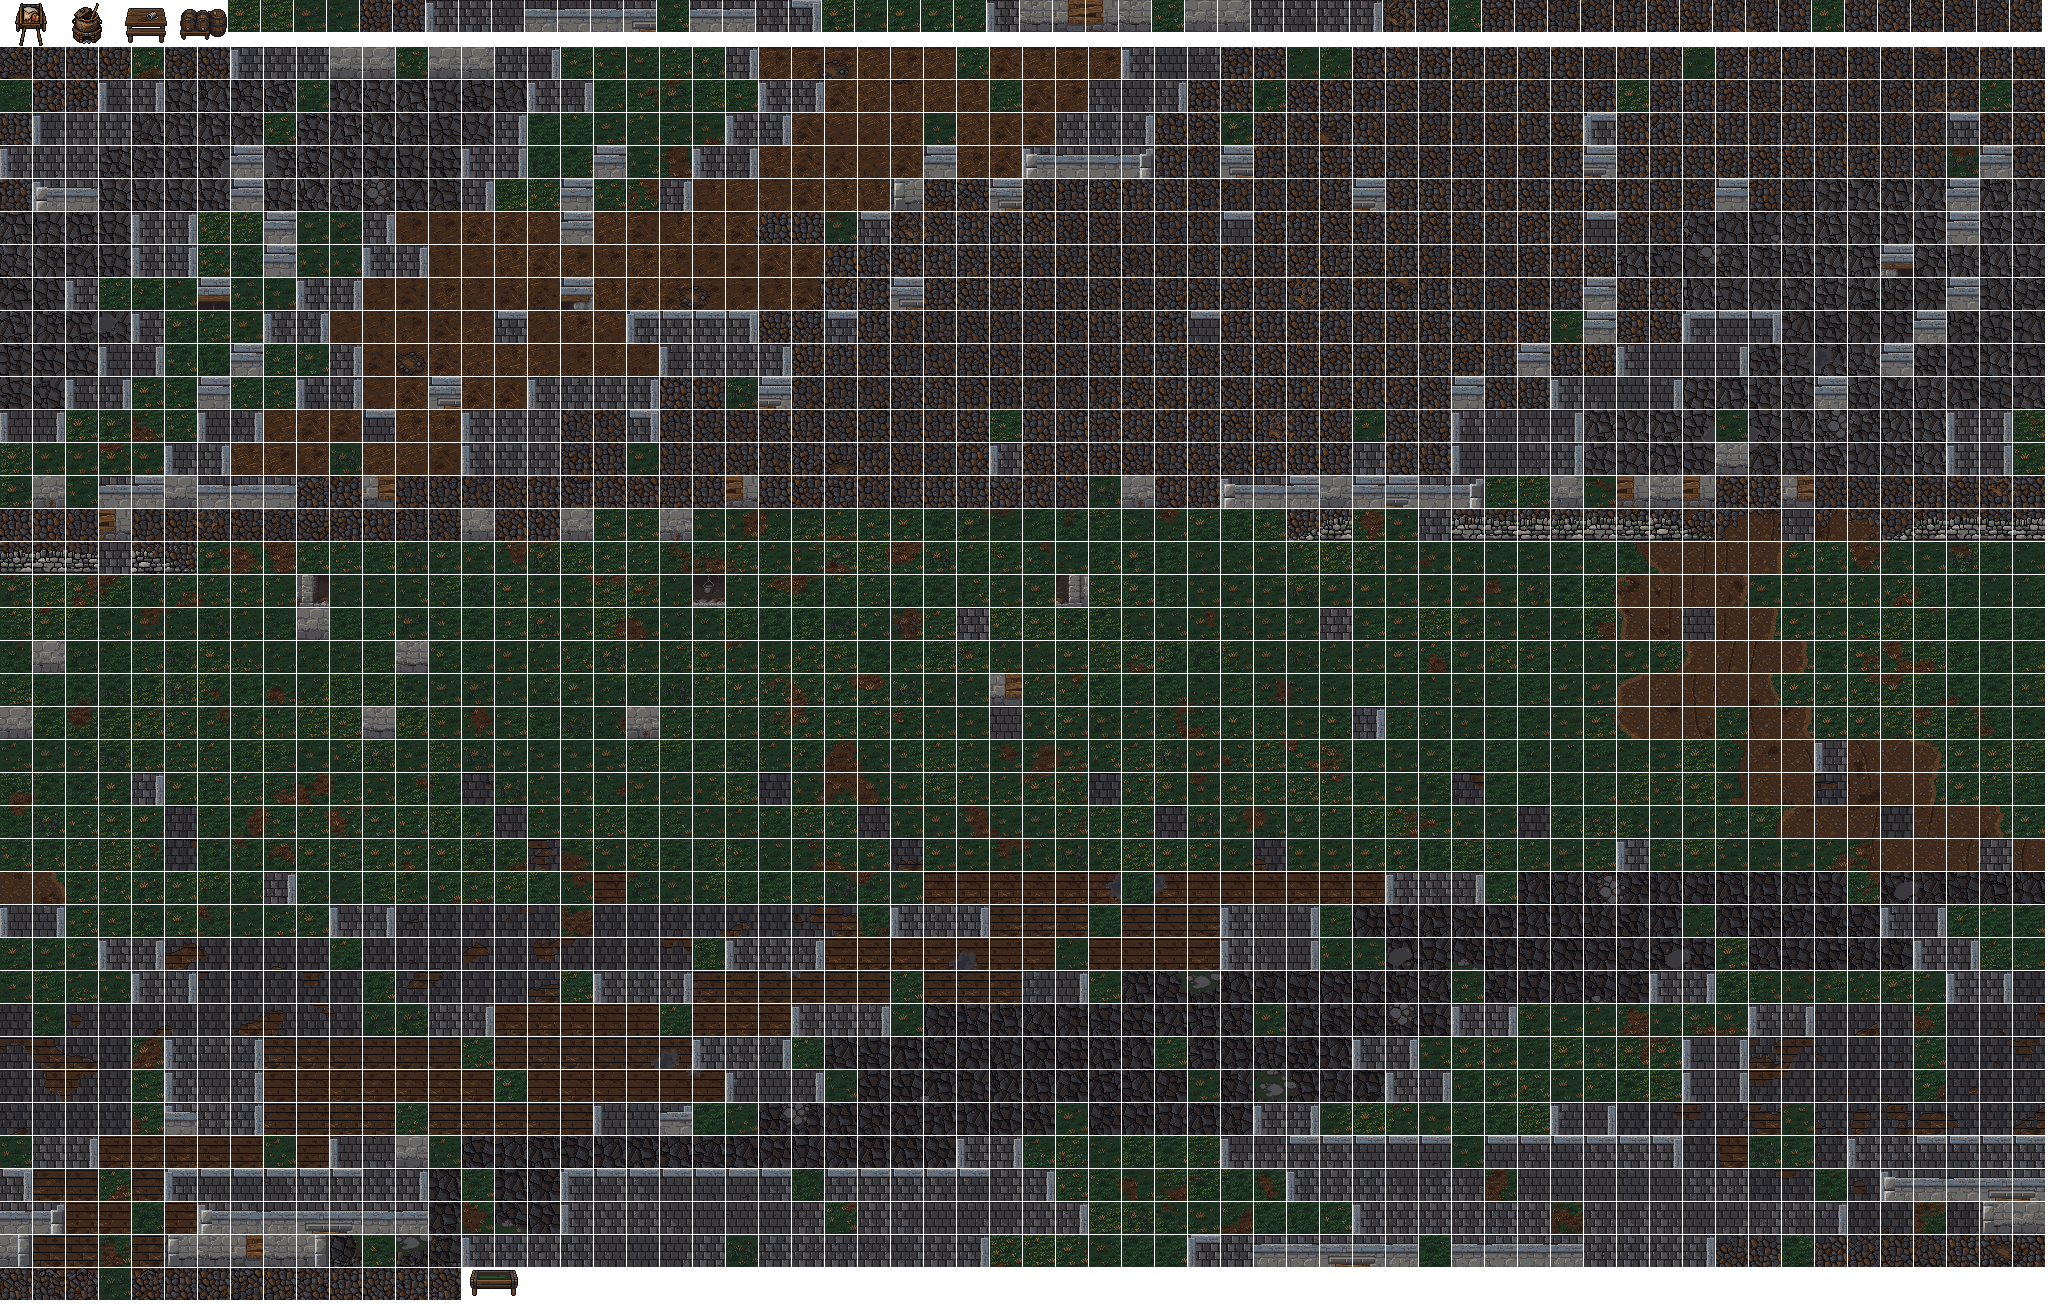
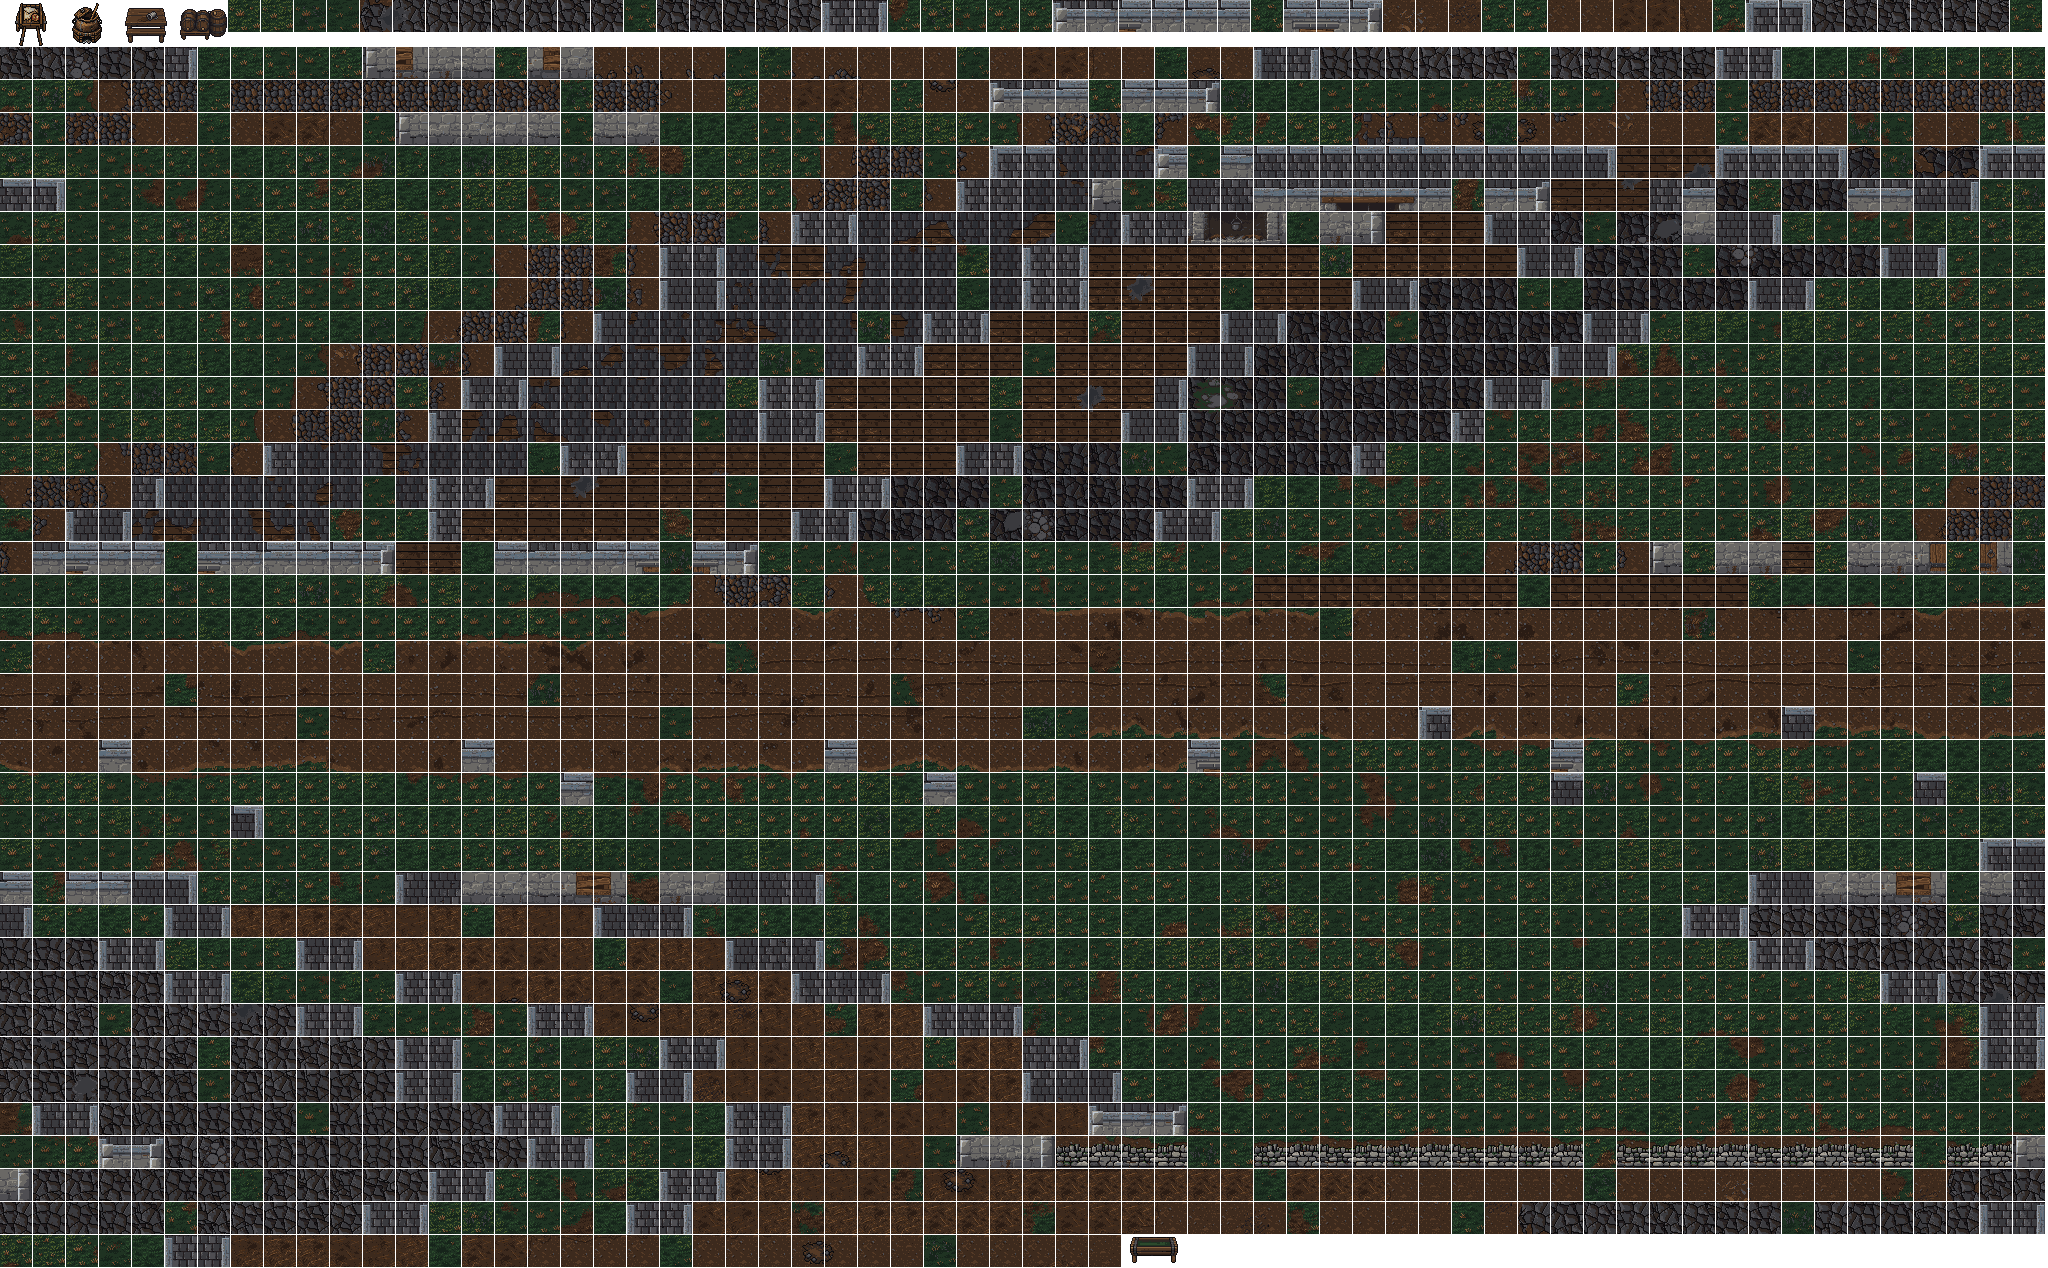
lane/b-morrow-kit: Carter's Rest rebuilt on layout A (Tyler's pick): the inn faces the road, the yard behind
Road east-west, start at the porch by the taproom's front door; front range: walked Roof (guest wing), Taproom (hearth on the back
wall), Cellar (keg door onto the yard); cart lane with the wheel track's cobble; packed-earth yard with straw paths; Stable NW,
Brewhouse NE. Painter: packed earth and straw path materials, ruts follow an east-west road. maskHash 211de7f3. No generations.
EXIT 0 one at a time: world-assets, pixel-icons, ground-pack, world-core, client-boot. pack check quick: lint clean, grade FAIL 6
(four-xp 0.78-0.80, seat-below-solo 0.78-0.94, Normal party lines).

diff --git a/src/data/grounds/carters_rest/map.js b/src/data/grounds/carters_rest/map.js
@@ -2,14 +2,17 @@
 // cellar (lane/b-morrow-kit 2026-11-19, the designer's "2026-11-14 The Morrow Hills" section 8). Row shape and lint: src/world/core/map-compile.js.
 // Rebuild the hash with `node tests/world-core.mjs --hashes` after changing what blocks a step. Shape of the pack: src/data/grounds/shape.js.
 //
-// THE GRID. A coaching inn round a cobbled yard on the moor. The road comes up from Krell's Hold at the south (x27-32), past Harry's cart,
-// through the gate in the yard's dry stone wall (row 33). Round the yard: the Stable on the west (its door x14-17 y23-25), the Brewhouse on
-// the east (x42-45 y23-25), and the inn's north range: the Roof (the guest wing's slates, slumped down to the yard at x18-20 y13-15, where
-// the trolls pull it apart to throw it), the Taproom (its front door x28-30) and the Cellar (the keg hatch x39-41). The route is the pack's
-// six rooms in order: 1 the Yard, 2 the Stable, 3 the Roof, 4 the Brewhouse, 5 the Taproom, 6 the Cellar. Every doorway is three wide.
-//   '#' the inn's walls and roofs, the dry stone wall and the moor (all block a step and a shot)
-//   '.' the yard's cobble   ':' the road's earth   '=' the taproom's boards   'y' the stable's straw (earth)
-//   'f' the brewhouse's flags   'c' the cellar's stone (both flagstone)   'r' the walked roof's slates (setts)
+// THE GRID: LAYOUT A (Tyler's pick 2026-11-19, art/review/morrow-kit/layout-sketches/A-inn-faces-the-road.png): the inn faces the road.
+// The Morrow road runs east-west along the south (rows 37-40, in from Krell's Hold at the west); the hero starts on it at the porch (row 36,
+// x22-35) by the taproom's front door (x28-29). The front range: the guest wing west (its walked Roof, slumped down to the yard at x15-17
+// y22-23, where the trolls pull it apart to throw it), the Taproom in the middle (its hearth on the back wall, its back door x32-34) and the
+// Cellar east (its keg door x39-41 onto the yard). The cart lane (x7-10) runs up the west side to a small yard behind (packed earth, straw
+// paths, cobble only on the wheel track), the Stable on its north-west (door x13-15 y14-16) and the Brewhouse on its north-east (x42-43).
+// The route is the pack's six rooms in order: 1 the Yard, 2 the Stable, 3 the Roof, 4 the Brewhouse, 5 the Taproom, 6 the Cellar.
+//   '#' the inn's walls and roofs, the yard's dry stone wall and the moor (all block a step and a shot)
+//   ':' the road's earth   'e' the yard's and lane's packed earth   'p' trodden straw   '.' the wheel track's cobble
+//   '=' the taproom's boards and the porch   'y' the stable's straw (earth)   'f' the brewhouse's flags   'c' the cellar's stone (flagstone)
+//   'r' the walked roof's slates (setts)
 //
 // ART: DRAWN (set `morrow`, tools/world-art/morrow-grounds.mjs). The ground `carters_rest_ground` is painted from these rows on the Morrow
 // Hills kit: the moor and road of the approved sample, the inn's floors born dim on the palette, the inn's walls laid over the paint. The
@@ -22,83 +25,81 @@ export default Object.freeze({
   "outdoor": true,
   "light": "day",
   "ground": "carters_rest_ground",
-  "legend": {"#":"rock",".":"cobble",":":"earth","=":"planks","y":"earth","f":"flagstone","c":"flagstone","r":"setts"},
+  "legend": {"#":"rock",".":"cobble",":":"earth","e":"earth","p":"earth","=":"planks","y":"earth","f":"flagstone","c":"flagstone","r":"setts"},
   "rows": [
     "############################################################",
     "############################################################",
     "############################################################",
     "############################################################",
-    "#####rrrrrrrrrrrrrrr###==============###ccccccccccccccc#####",
-    "#####rrrrrrrrrrrrrrr###==============###ccccccccccccccc#####",
-    "#####rrrrrrrrrrrrrrr###==============###ccccccccccccccc#####",
-    "#####rrrrrrrrrrrrrrr###==============###ccccccccccccccc#####",
-    "#####rrrrrrrrrrrrrrr###==============###ccccccccccccccc#####",
-    "#####rrrrrrrrrrrrrrr###==============###ccccccccccccccc#####",
-    "#####rrrrrrrrrrrrrrr###==============###ccccccccccccccc#####",
-    "#####rrrrrrrrrrrrrrr###==============###ccccccccccccccc#####",
-    "#####rrrrrrrrrrrrrrr###==============###ccccccccccccccc#####",
-    "##################rrr#######===########ccc##################",
-    "##################rrr#######===########ccc##################",
-    "##################rrr#######===########ccc##################",
-    "##################........................##################",
-    "##################........................##################",
-    "####yyyyyyyyyy####........................####ffffffffff####",
-    "####yyyyyyyyyy####........................####ffffffffff####",
-    "####yyyyyyyyyy####........................####ffffffffff####",
-    "####yyyyyyyyyy####........................####ffffffffff####",
-    "####yyyyyyyyyy####........................####ffffffffff####",
-    "####yyyyyyyyyyyyyy........................ffffffffffffff####",
-    "####yyyyyyyyyyyyyy........................ffffffffffffff####",
-    "####yyyyyyyyyyyyyy........................ffffffffffffff####",
-    "####yyyyyyyyyy####........................####ffffffffff####",
-    "####yyyyyyyyyy####........................####ffffffffff####",
-    "####yyyyyyyyyy####........................####ffffffffff####",
-    "####yyyyyyyyyy####........................####ffffffffff####",
-    "####yyyyyyyyyy####........................####ffffffffff####",
-    "##################........................##################",
-    "##################........................##################",
-    "############################::::############################",
-    "############################::::############################",
-    "############################::::############################",
-    "############################::::############################",
-    "############################::::############################",
-    "###########################:::::############################",
-    "###########################:::::############################",
-    "############################:::::###########################",
-    "############################:::::###########################",
-    "###########################::::::###########################",
-    "###########################::::::###########################"
+    "############################################################",
+    "############################################################",
+    "###yyyyyyyyyy###############################fffffffffff#####",
+    "###yyyyyyyyyy###############################fffffffffff#####",
+    "###yyyyyyyyyy###############################fffffffffff#####",
+    "###yyyyyyyyyy###############################fffffffffff#####",
+    "###yyyyyyyyyy###############################fffffffffff#####",
+    "###yyyyyyyyyy###############################fffffffffff#####",
+    "###yyyyyyyyyy###############################fffffffffff#####",
+    "###yyyyyyyyyy###############################fffffffffff#####",
+    "###yyyyyyyyyyyyypppppppeeeeeeeeeeeeeeeeeeefffffffffffff#####",
+    "###yyyyyyyyyyyyypppppppeeeeeeeeeeeeeeeeeeefffffffffffff#####",
+    "###yyyyyyyyyyyyyeeeeeeeeeeeeeeeeeeeeeeeeeefffffffffffff#####",
+    "################eeeeeeeeeeeeeeeeppeeeeeeee##fffffffffff#####",
+    "################eeeeeeeeeeeeeeeeppeeeeeeee##fffffffffff#####",
+    "#######e..............eeeeeeeeeeppeeeeeeee##################",
+    "#######e..............eeeeeeeeeeppeeeeeeee##################",
+    "#######e..e#####eeeeeeeeeeeeeeeeppeeeeeeee##################",
+    "#######e..e####rrr##############===####ccc##################",
+    "#######e..e####rrr##############===####ccc##################",
+    "#######e..e##rrrrrrrr###########===####ccc##################",
+    "#######e..e##rrrrrrrr##============##cccccccc###############",
+    "#######e..e##rrrrrrrr##============##cccccccc###############",
+    "#######e..e##rrrrrrrr##============##cccccccc###############",
+    "#######e..e##rrrrrrrr##============##cccccccc###############",
+    "#######e..e##rrrrrrrr##============##cccccccc###############",
+    "#######e..e##rrrrrrrr##============##cccccccc###############",
+    "#######e..e##rrrrrrrr##============##cccccccc###############",
+    "#######e..e##rrrrrrrr##============##cccccccc###############",
+    "#######e..e##rrrrrrrr##============##cccccccc###############",
+    "#######e..e#################==##############################",
+    "#######e..e#################==##############################",
+    "#######e..e###########==============########################",
+    "::::::::::::::::::::::::::::::::::::::::::::::::::::::::::::",
+    "::::::::::::::::::::::::::::::::::::::::::::::::::::::::::::",
+    "::::::::::::::::::::::::::::::::::::::::::::::::::::::::::::",
+    "::::::::::::::::::::::::::::::::::::::::::::::::::::::::::::",
+    "############################################################",
+    "############################################################",
+    "############################################################"
   ],
   "faces": [],
   "objects": [
-    {"id":"cw_coal_seam","x":41,"y":5},
-    {"id":"cw_coal_seam","x":53,"y":5},
-    {"id":"mh_harrys_cart","x":27,"y":25},
-    {"id":"sack_pile","x":21,"y":18},
-    {"id":"crates","x":39,"y":18},
-    {"id":"hay_bale","x":19,"y":22},
-    {"id":"barrel_broken","x":38,"y":30},
-    {"id":"chopping_block","x":35,"y":17},
-    {"id":"mh_trough","x":5,"y":20},
-    {"id":"hay_bale","x":12,"y":19},
-    {"id":"hay_bale","x":5,"y":29},
-    {"id":"sack_stack","x":12,"y":29},
-    {"id":"cr_brew_kettle","x":48,"y":19},
-    {"id":"cr_brew_kettle","x":54,"y":19},
-    {"id":"mh_kegs","x":47,"y":29},
-    {"id":"mh_taproom_table","x":24,"y":5},
-    {"id":"mh_taproom_table","x":33,"y":5},
-    {"id":"mh_taproom_table","x":24,"y":11},
-    {"id":"mh_taproom_table","x":33,"y":11},
-    {"id":"mh_kegs","x":44,"y":5},
-    {"id":"mh_kegs","x":43,"y":11},
-    {"id":"mh_kegs","x":50,"y":11}
+    {"id":"cw_coal_seam","x":44,"y":27},
+    {"id":"cw_coal_seam","x":37,"y":32},
+    {"id":"mh_harrys_cart","x":20,"y":17},
+    {"id":"sack_pile","x":35,"y":15},
+    {"id":"chopping_block","x":39,"y":20},
+    {"id":"hay_bale","x":24,"y":14},
+    {"id":"mh_kegs","x":36,"y":21},
+    {"id":"mh_taproom_table","x":33,"y":36},
+    {"id":"mh_taproom_table","x":24,"y":27},
+    {"id":"mh_taproom_table","x":32,"y":31},
+    {"id":"mh_taproom_table","x":24,"y":32},
+    {"id":"mh_trough","x":4,"y":7},
+    {"id":"hay_bale","x":11,"y":7},
+    {"id":"sack_stack","x":4,"y":15},
+    {"id":"hay_bale","x":10,"y":15},
+    {"id":"cr_brew_kettle","x":46,"y":8},
+    {"id":"cr_brew_kettle","x":52,"y":16},
+    {"id":"mh_kegs","x":51,"y":7},
+    {"id":"mh_kegs","x":38,"y":26},
+    {"id":"mh_kegs","x":42,"y":32}
   ],
   "buildings": [],
-  "path": [[28,39],[30,39],[30,41],[28,41]],
-  "spawns": [[24,25],[25,26],[24,27],[23,26],[25,25],[25,27],[23,27],[23,25],[8,23],[9,24],[8,25],[7,24],[9,23],[9,25],[7,25],[7,23],[12,7],[13,8],[12,9],[11,8],[13,7],[13,9],[11,9],[11,7],[51,23],[52,24],[51,25],[50,24],[52,23],[52,25],[50,25],[50,23],[29,7],[30,8],[29,9],[28,8],[30,7],[30,9],[28,9],[28,7],[47,7],[48,8],[47,9],[46,8],[48,7],[48,9],[46,9],[46,7]],
+  "path": [[26,38],[30,38],[30,39],[26,39]],
+  "spawns": [[28,16],[29,17],[28,18],[27,17],[29,16],[29,18],[27,18],[27,16],[8,10],[9,11],[8,12],[7,11],[9,10],[9,12],[7,12],[7,10],[17,27],[18,28],[17,29],[16,28],[18,27],[18,29],[16,29],[16,27],[49,11],[50,12],[49,13],[48,12],[50,11],[50,13],[48,13],[48,11],[28,28],[29,29],[28,30],[27,29],[29,28],[29,30],[27,30],[27,28],[40,28],[41,29],[40,30],[39,29],[41,28],[41,30],[39,30],[39,28]],
   "stations": {},
-  "exits": [{"x":29,"y":43,"to":"town_common"}],
-  "start": [29,41],
-  "maskHash": "373b87da"
+  "exits": [{"x":0,"y":38,"to":"town_common"}],
+  "start": [28,38],
+  "maskHash": "211de7f3"
 });

diff --git a/src/data/grounds/carters_rest/pack.js b/src/data/grounds/carters_rest/pack.js
@@ -38,20 +38,20 @@ export default definePack({
   ground: {
     map: 'carters_rest',
     /* the road in from Krell's Hold, by Harry's cart */
-    start: [[29, 41], [28, 41], [30, 41], [29, 40]],
+    start: [[28, 38], [27, 38], [29, 38], [28, 39]],
     pockets: [
       /* P0 the Yard: Pickers going through the last wagon. The soft door */
-      box([18, 16, 41, 32], [24, 26], [PK, PK], [TH, PK, PK, BR, PK, PK]),
+      box([16, 14, 41, 21], [28, 17], [PK, PK], [TH, PK, PK, BR, PK, PK]),
       /* P1 the Stable: a Stable Troll asleep in the straw and a Picker in the tack room */
-      box([4, 18, 13, 30], [8, 24], [ST, PK], [PK, ST, PK, TH, PK, ST]),
+      box([3, 6, 12, 16], [8, 11], [ST, PK], [PK, ST, PK, TH, PK, ST]),
       /* P2 the Roof: Slate Throwers up top, pulling the inn apart to throw it */
-      box([5, 4, 19, 12], [12, 8], [TH, PK], [TH, PK, ST, PK, TH, PK]),
+      box([13, 24, 20, 33], [17, 28], [TH, PK], [TH, PK, ST, PK, TH, PK]),
       /* P3 the Brewhouse: the Brewers and their kettles */
-      box([46, 18, 55, 30], [51, 24], [BR, BR], [PK, ST, BR, PK, TH, PK]),
+      box([44, 6, 54, 18], [49, 12], [BR, BR], [PK, ST, BR, PK, TH, PK]),
       /* P4 the Taproom: a Stable Troll at the bar and a Thrower on the stairs */
-      box([23, 4, 36, 12], [29, 8], [ST, TH], [BR, PK, ST, PK, TH, PK]),
+      box([23, 25, 34, 33], [28, 29], [ST, TH], [BR, PK, ST, PK, TH, PK]),
       /* P5 the Cellar: the Landlord sits on the last of the ale. The hardest pull and the rare carrier */
-      box([40, 4, 54, 12], [47, 8], [LL, PK], [ST, BR, TH, PK, ST, PK]),
+      box([37, 25, 44, 33], [40, 29], [LL, PK], [ST, BR, TH, PK, ST, PK]),
     ],
     route: [0, 1, 2, 3, 4, 5],
     /* ONE DIFFICULTY FOR EVERY GROUP (Tyler 2026-11-08), ONE PACK ON NORMAL (Tyler 2026-11-11). */
@@ -59,7 +59,7 @@ export default definePack({
     densityMax: [8, 8, 8, 8],
     /* THE GATHER SLIDER (inert until the hunt-gathering engine lands): two coal seams in the Cellar, standing in for a Dawnstone Vein
        (gathering.js dawnstone_rock, Mining 90, has no node kind or sprite yet; the Night Shift gets the first real one). refKillMs the Hold's. */
-    gather: gather(12000, [['coal_rock', 41, 5, 5], ['coal_rock', 53, 5, 5]]),
+    gather: gather(12000, [['coal_rock', 44, 27, 5], ['coal_rock', 37, 32, 5]]),
   },
   monsters: {
     troll_picker: {
